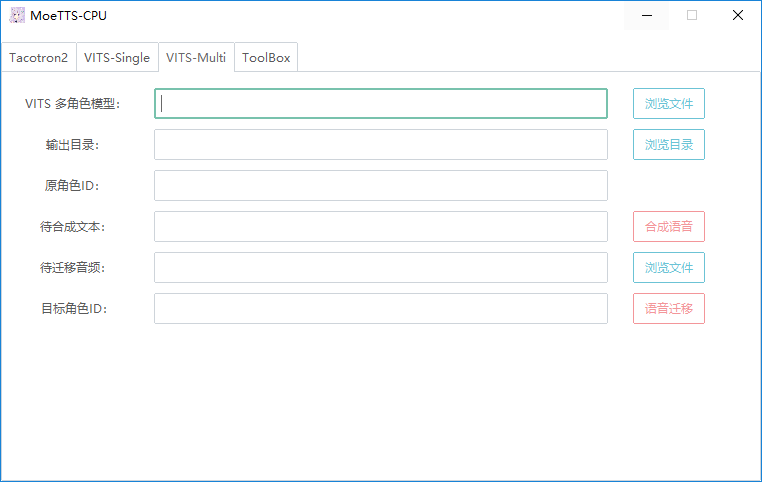
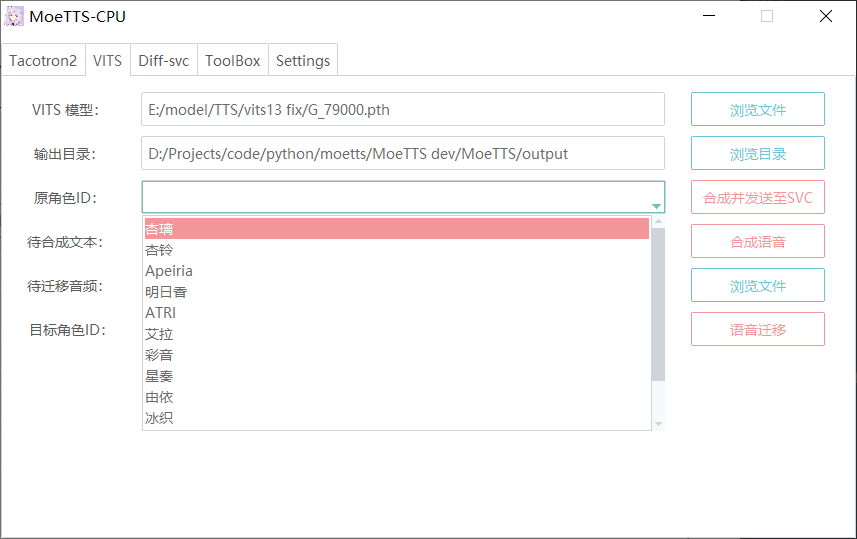
update readme

diff --git a/README.md b/README.md
@@ -13,6 +13,16 @@ Speech synthesis model repo for galgame characters based on Tacotron2 , Hifigan 
 
 ## 近期更新
 
+1.3.0：
+
+> 1. 增加openvpi版diff svc,原版diff svc 24000模型,带fs模型不再支持，需要请下载1.2.5版本
+> 2. 优化GUI设置相关代码
+> 3. VITS支持发送至diff svc（语音合成完毕后交给diff svc进行语音转换）
+> 4. 修改cleaners逻辑，现在可以选择自动clean（待输入文本clean后再合成）
+> 5. 多人模型可以使用下拉列表选择说话人
+> 6. 修复diff svc界面高DPI 下控件显示错位
+> 7. 更新配置文件格式
+
 1.2.5：
 
 > 1. 规范diff_svc import
@@ -34,7 +44,7 @@ Speech synthesis model repo for galgame characters based on Tacotron2 , Hifigan 
 > 1. 更新diff-svc(同步diffsvc原项目：支持nsf hifigan,增加Crepe缓存，修复了一些BUG)
 > 2. 11-22：BUG通知，加载输入音频会覆盖原始wav，记得备份。配置文件开启UV可能导致呼吸声与空白异常。下版本修复。
 
-GPU版请见本仓库“gpu”分支。
+GPU版请见本仓库“gpu”分支。代码见dev分支。
 
 ## 用户协议
 
@@ -51,75 +61,64 @@ GPU版请见本仓库“gpu”分支。
 
 ## 使用方法
 
-### 模型目录格式
+### 模型目录及配置文件格式
 
-1. 单模型可以放在任意位置，如果模型带有配置文件，请将它重命名为`config.json`（diff-svc请重命名为`config.yaml`）并与模型放置在同一目录。（例如hifigan，vits模型，它们是带有配置文件的）
+1. 单模型可以放在任意位置，如果模型带有配置文件，请将它重命名为`config.json`（diff-svc请重命名为`config.yaml`）并与模型放置在同一目录。
 
-2. **（TTS模型注意）**1.2.0版本后，你需要将你的模型使用的symbols按以下示例保存为`moetts.json`并与模型放置在同一目录。（如果你不知道该如何进行此步骤，可以参考给出的预训练模型中的配置文件）
+2. **（TTS模型配置）**使用TTS模型前，请编写一个简单的配置文件，并将它命名为`moetts.json`与你的TTS模型放在同一目录。
 
-   GUI配置文件示例 (atri vits模型使用的配置)（文件名：moetts.json）：
+   **注：如果你使用的不是本仓库提供的模型，那么此步骤是必须的**。
+
+   以下为多人模型配置示例（单人只需要symbols）：
 
    ```json
    {
-   	"symbols":["_", ",", ".", "!", "?", "-", "A", "E", "I", "N", "O", "Q", "U", "a", "b", "d", "e", "f", "g", "h", "i", "j", "k", "m", "n", "o", "p", "r", "s", "t", "u", "v", "w", "y", "z", "\u0283", "\u02a7", "\u2193", "\u2191", " "]
+   	"symbols":["_", ",", ".", "!", "?", "-", "A", "E", "I", "N", "O", "Q", "U", "a", "b", "d", "e", "f", "g", "h", "i", "j", "k", "m", "n", "o", "p", "r", "s", "t", "u", "v", "w", "y", "z", "\u0283", "\u02a7", "\u2193", "\u2191", " "],
+       "speakers":{
+   		"杏璃":0,
+   		"杏铃":1,
+   		"Apeiria":2,
+   		"明日香":3,
+   		"ATRI":4,
+   		"艾拉":5,
+   		"彩音":6,
+   		"星奏":7,
+   		"由依":8,
+   		"冰织":9,
+   		"真白":10,
+   		"美绘瑠":11,
+   		"二阶堂真红":12
+   	}
    }
    
    ```
-   
+
    注：**此配置不是训练模型使用的config.json**,是用于指定您的模型训练时所使用的symbols，例如VITS，您可以在`vits/text/symbols.py`中找到使用的symbols，并将它按以上格式保存为json。
-
-### 文本输入格式
-
-文本一般是输入音素（日语在这里应该输入罗马音），但具体要看模型训练者的数据是怎么输入的。比如我的ATRI模型(Tacotron2版本)是输入无空格罗马音，标点符号只支持逗号句号。
-
-**注：v1.2.0后弃用了cleaners，Toolbox中提供了日语与中文的文本到发音转换，其他语言请自行clean后输入。**
 
 ### GUI使用方法
 
-![tacotron2](assets/tacotron2.png)
+#### TTS(tacotron2,vits)
 
-选择您的模型路径与输出目录，最后输入待合成文本，点击`合成语音`等待一会软件会将音频输出到`输出目录/outpus.wav`
+![VITS界面截图](./assets/vits.png)
 
-注意事项：
+说明：
 
- 1. 首次合成需要加载模型，耗时较长，相同模型再次合成不会再次加载，直接合成。
- 2. 如果切换模型，再次合成会重新加载。
- 3. 如果修改cleaners与symbols，重新启动软件后才能生效。
- 4. 软件为64位版本，不支持32位系统。
+1. 角色ID：用于指定多人模型的角色。如果配置文件中含有角色表会优先加载下拉框供选择，你可以在设置中关闭下拉框。配置文件未提供角色表即在此输入数字选择角色。单人模型留空即可。
 
-VITS特殊说明
+2. 待合成文本：语音合成使用的文本（音素）。你可以将你的文本按模型输入要求clean后在此输入，也可以在工具箱中选择自动clean，在这直接输入原始文本即可。
 
-![vits](assets/vits.png)
+   例（勾选自动转换后直接输入原始文本）:
 
-1. VITS-Single，VITS-Multi分别为单角色模型与多角色模型
-2. VITS-Multi中的原角色ID即待合成语音的角色ID，需要填入数字，目标角色ID为语音迁移功能的待迁移目标角色ID。
-3. **待迁移音频需要22050的采样率，16位，单声道。**
+![ToolBox界面截图](./assets/tools.png)
 
-## V 1.2.0 更新功能说明
+![待合成文本](./assets/text_input.png)
 
-1. Toolbox更新
+3. 待迁移音频：VITS 多人模型提供的语音转换功能，可以对模型中一位角色的音频转为模型中的另一位角色。输入音频需要22050Hz,单声道wav。
+4. 合成并发送至SVC：使用VITS合成语音后再使用diff svc转换音频。使用此功能需要在VITS和Diff-SVC界面中提前选择好模型及输出位置等。
 
-   1. 加入中文g2p工具
-   2. 内置了pyopenjtalk，g2p速度更快，解决gbk编码错误
+#### diff-svc
 
-   ![1.2.0 tool](assets/1.2.0_tool.png)
-
-2. 设置更新
-
-   1. 添加批量合成模式
-   2. 支持自定义文件名输出
-   3. VITS模型支持语速调节
-4. 主题选择
-   
-   ![1.2.0 tool](assets/1.2.0_settings.png)
-
-## Beta版本说明
-
-此版本为测试版，用于测试一些新功能，稳定性仅简单测试（win10系统下测试），代码也可能不规范。
-
-### diff-svc
-
-![diff_svc_gui](./assets/diff_svc.png)
+![Diff-SVC界面截图](./assets/diff_svc.png)
 
 参数说明：
 
@@ -127,8 +126,9 @@ VITS特殊说明
 2. 启用Crepe：该选项可降噪音频，启用后CPU耗时较高，约为原音频时长8倍，建议合成最终版本再开启，干净的音频无需开启。
 3. Crepe轻量模式：在启用Crepe的前提下，勾选此选项后Crepe使用Tiny模型，耗时更短，约为原音频时长1/4。
 4. 加速倍率：默认为20，耗时约1:3，预览可使用100，耗时约1：1（该设置会影响音频质量）
-5. 加速倍率：默认为20，耗时约1:3，预览可使用100，耗时约1：1（该设置会影响音频质量）
-6. 待转换音频：wav或ogg纯人声音频，转换后为模型角色音色。
+5. 待转换音频：wav或ogg纯人声音频，转换后为模型角色音色。
+6. 自适应变调：自动评估适合的音域进行转换（需要配置文件包含相关信息）。
+7. 角色ID：多人模型用，填入数字或使用下拉框选择。
 
 ## 在线Demo
 
@@ -173,11 +173,7 @@ Integrated into [Huggingface Spaces ](https://huggingface.co/spaces) using  [Gra
 
 1. Q：这个GUI能使用非官方Tacotron2或VITS训练的模型吗？
 
-   A：如果模型结构与推理方式没改过的话，只是数据处理不同，应该是没问题的。
-
-2. Q：是否有命令行版本或HttpApi？
-
-   A：可能只会有Windows版。
+   A：未修改过模型结构的可以使用，请参考使用方法中说明进行配置。（so-vits,emo-vits等修改版本不支持）
 
 3. Q：如何获得完整代码？
 
@@ -186,6 +182,10 @@ Integrated into [Huggingface Spaces ](https://huggingface.co/spaces) using  [Gra
 5. Q：如何训练自己的模型？
 
    A：本仓库不提供自训练支持，请到本项目使用到的各个原项目中查看帮助。
+
+4. Q : 打不开，缺失DLL等？
+
+   A：请安装常用运行库，如果依旧失败，可以使用cmd运行程序并提供尽可能详细的信息提交Issue。
 
 ## 分享模型&参与开发
 
